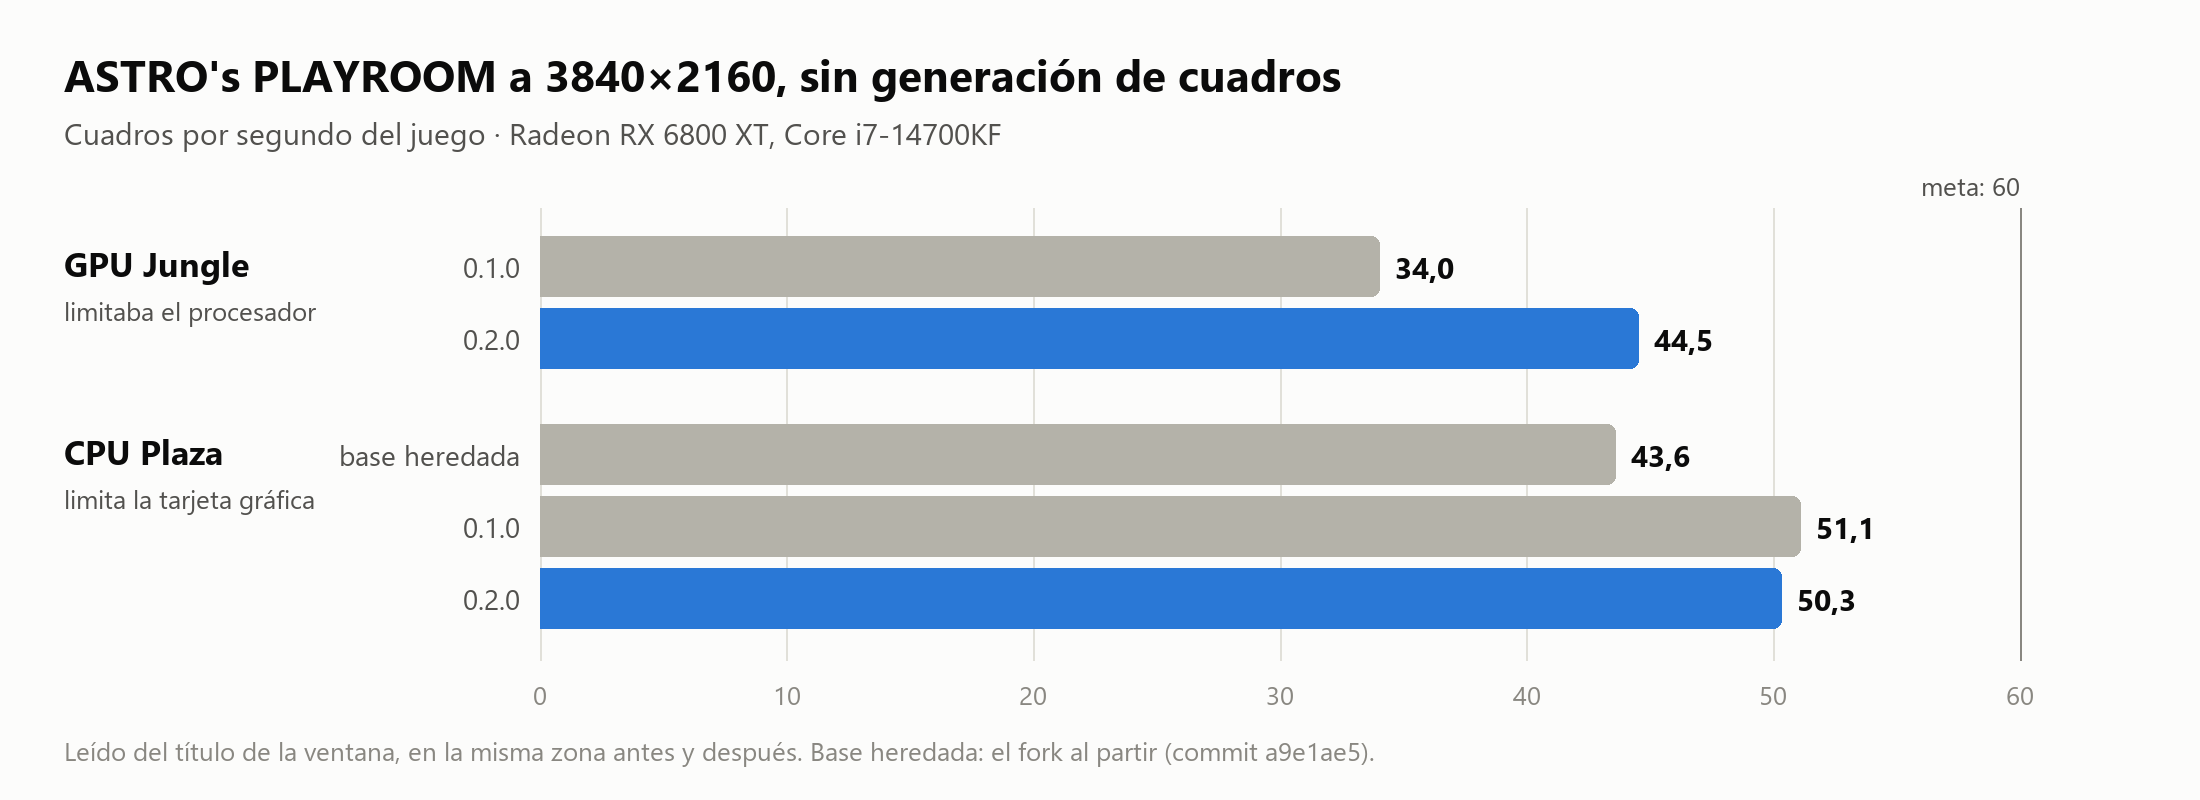
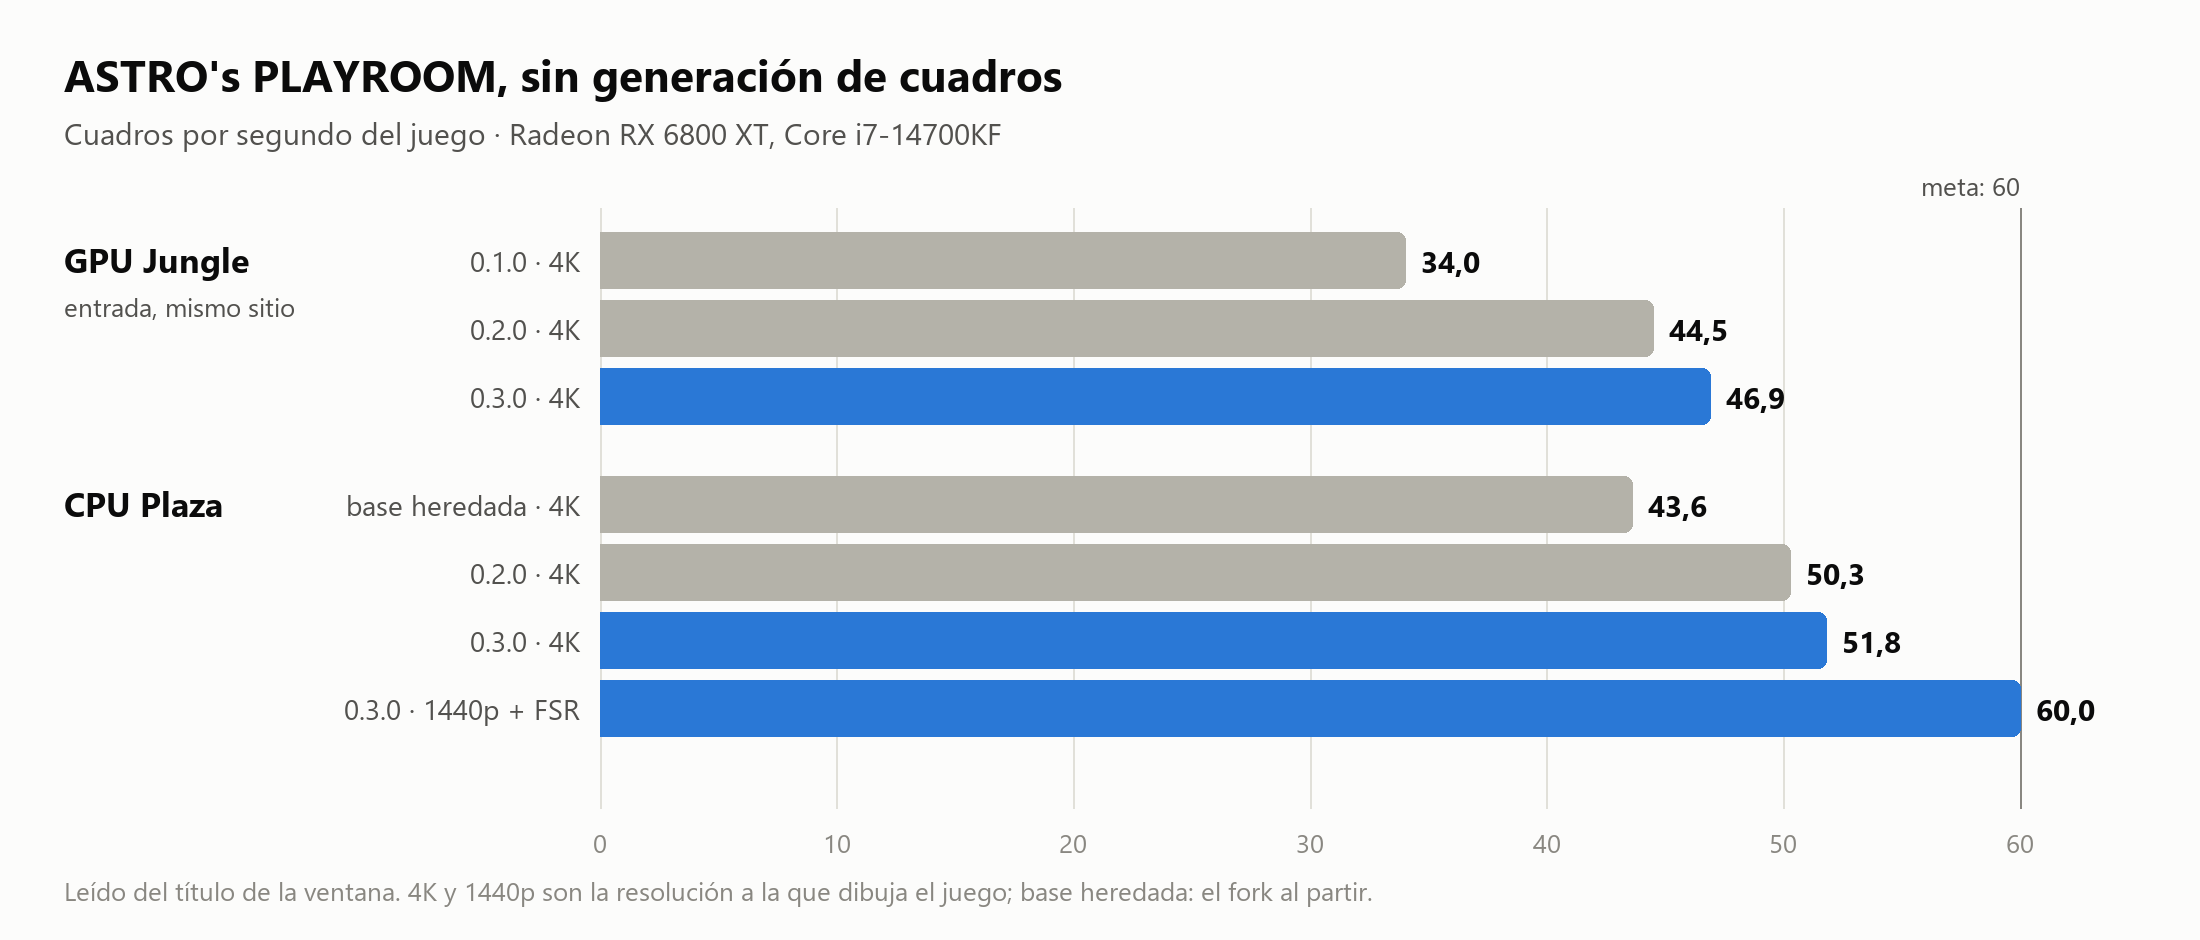
Version 0.3.0: what was measured and what changed

diff --git a/README.md b/README.md
@@ -14,84 +14,90 @@ gráfica de la PS5.
 | Equipo de pruebas | Radeon RX 6800 XT, Intel Core i7-14700KF, Windows 11 |
 | Juego de referencia | ASTRO's PLAYROOM (PPSA01325) |
 | Punto de partida | 34–44 fps en juego (GPU Jungle y CPU Plaza) |
-| Ahora (0.2.0) | 44–50 fps en GPU Jungle, ≈50 fps en CPU Plaza |
+| Ahora (0.3.0) | 60 fps en CPU Plaza (1440p con FSR), 41–47 fps en GPU Jungle |
 | Meta | 60 fps estables |
 
-Todo a 3840×2160, que es como dibuja el juego, y sin generación de cuadros.
+Sin generación de cuadros.
 
 ## Estado
 
-Versión **0.2.1**. Medido en la RX 6800 XT, con el mismo juego y en el mismo sitio antes y después:
+Versión **0.3.0**. Medido en la RX 6800 XT, leyendo los fps que el emulador escribe en el título.
 
 ![Cuadros por segundo antes y después](docs/screenshots/fps-antes-y-despues.png)
 
-| Zona | Antes | 0.2.0 | Qué limita ahora |
-| --- | --- | --- | --- |
-| GPU Jungle (hierba, al empezar) | 34,0 fps (0.1.0) | 44,5 fps | El procesador |
-| CPU Plaza | 43,6 fps (base heredada) · 51,1 fps (0.1.0) | 50,3 fps | La tarjeta gráfica (≈18 ms por cuadro) |
+| Zona | Antes | 0.3.0 |
+| --- | --- | --- |
+| CPU Plaza, dibujando a 3840×2160 | 43,6 fps (base heredada) · 50,3 fps (0.2.0) | 51,8 fps |
+| CPU Plaza, dibujando a 2560×1440 con FSR | — | **60,0 fps estables** |
+| GPU Jungle, entrada, a 3840×2160 | 34,0 fps (0.1.0) · 44,5 fps (0.2.0) | 46,9 fps |
+| GPU Jungle, más adentro (acantilado) | — | 41–45 fps a cualquier resolución |
 
-Los fps son los que escribe el emulador en el título de la ventana. «Base heredada» es el fork
-tal como partió de KytyPS5 y BryKytyPS5 (commit `a9e1ae5`); 0.1.0 ya traía las primeras mejoras
-de carga de la tarjeta, que son las que se notan en la plaza. Las de 0.2.0 son de procesador y se
-notan donde el procesador era el límite: la selva. En la plaza 0.1.0 y 0.2.0 dan lo mismo, dentro
-de lo que varía la medida de una partida a otra.
+«Base heredada» es el fork tal como partió de KytyPS5 y BryKytyPS5 (commit `a9e1ae5`).
 
-### GPU Jungle: de 34 a 44,5 fps
+### La configuración recomendada: 1440p con FSR a pantalla completa
 
-| 0.1.0 · 34,0 fps | 0.2.0 · 44,5 fps |
+![CPU Plaza a 60 fps con 1440p y FSR](docs/screenshots/astro-plaza-0.3.0-1440p-fsr-60fps.jpg)
+
+ASTRO's PLAYROOM dibuja a 3840×2160 y a esa resolución la tarjeta va al límite. Con el parche
+que viene en el paquete dibuja a 2560×1440, y el emulador escala la imagen a la pantalla con
+**AMD FSR 1** (sus dos pasadas, EASU y RCAS). La plaza pasa a 60 fps estables, y en todo el juego
+hay menos tirones porque la tarjeta deja de ir justa. No lleva generación de cuadros: los 60 son
+del juego.
+
+![Escalado normal frente a FSR 1](docs/screenshots/fsr-comparacion.png)
+
+Recorte al 100 % de la misma escena, de 2560×1440 a 3840×2160. FSR 1 es el más reciente que se
+puede usar aquí: FSR 2, 3 y 4 necesitan vectores de movimiento y profundidad que el juego no
+entrega al emulador. Es una casilla por juego (**FSR upscaling**) y `--fsr-upscaling true`; con
+`--fsr-softness 0`–`20` se elige cuánto marca los bordes (10 por defecto).
+
+### GPU Jungle: de 34 a 47 fps, y lo que falta
+
+| 0.1.0 · 34,0 fps | 0.3.0 · 46,9 fps |
 | --- | --- |
-| ![GPU Jungle con 0.1.0](docs/screenshots/astro-jungla-0.1.0-34fps.jpg) | ![GPU Jungle con 0.2.0](docs/screenshots/astro-jungla-0.2.0-44fps.jpg) |
+| ![GPU Jungle con 0.1.0](docs/screenshots/astro-jungla-0.1.0-34fps.jpg) | ![GPU Jungle con 0.3.0](docs/screenshots/astro-jungla-0.3.0-47fps.jpg) |
 
-El mismo sitio con las dos versiones: un 31 % más de cuadros por segundo. Más adentro del nivel
-0.2.0 llega a ≈50 fps.
+En la selva limita el procesador, no la tarjeta: el juego emite entre 8000 y 10 600 dibujos por
+cuadro y un solo hilo los prepara, así que bajar la resolución ahí da estabilidad pero no fps.
+Lo que se ha recortado de ese hilo en 0.3.0, cada cosa medida encendiéndola y apagándola en la
+misma partida y comprobada contra el camino sin atajo:
 
-### CPU Plaza: de 43,6 a ≈50 fps
+- Los destinos de render de un dibujo sirven para el siguiente mientras nada de lo que dependen
+  cambia: −7,6 % de procesador por dibujo.
+- El pipeline del dibujo anterior se toma sin reconstruir su clave: −3,2 %.
+- Lo que escribe cada hilo va en su propia línea de caché (los hilos se la quitaban con cada
+  comando): −4 %.
+- Los datos del siguiente dibujo se piden por adelantado al hilo que se adelanta: −1,2 %.
 
-| Base heredada · 43,6 fps | 0.2.0 · 50,3 fps |
-| --- | --- |
-| ![CPU Plaza con la base heredada](docs/screenshots/astro-plaza-origen-43fps.jpg) | ![CPU Plaza con 0.2.0](docs/screenshots/astro-plaza-0.2.0-50fps.jpg) |
+En total, el coste por dibujo bajó un 13 % (de 2,21 a 1,92 µs con los cronómetros puestos). Para
+60 fps en lo más cargado de la selva hace falta alrededor de un 20 % más, y eso ya no sale de
+recortes así: pide repartir la preparación de cada dibujo entre dos hilos, que es el trabajo
+siguiente.
 
-### Generación de cuadros (opcional)
+Probado y descartado, por si alguien lo intenta: actualizar las sombras de las luces quietas un
+cuadro sí y otro no ahorra un 30 % de dibujos con la cámara quieta, pero en la selva las sombras
+parpadean; y fijar los hilos a núcleos distintos no cambia nada.
 
-![CPU Plaza con generación de cuadros](docs/screenshots/astro-plaza-0.2.0-generacion-de-cuadros.jpg)
+### También en 0.3.0
 
-Con AMD FSR 3 se muestra un cuadro generado entre cada dos del juego. En la plaza a 3840×2160,
-con el juego limitado a 50 fps: 47 fps del juego y 94 cuadros mostrados por segundo (se ve en el
-título: `game fps` y `presents/s`). Generar los cuadros cuesta algo de tarjeta, por eso el juego
-no llega a los 50. Suaviza el movimiento; no hace que el juego vaya más rápido. Está apagada por
-defecto y se activa por juego en el lanzador o con `--frame-generation true`.
-
-De dónde sale la mejora:
-
-- El juego emite unos 8000 dibujos por cuadro y un solo hilo los prepara todos. Más de la mitad
-  van a un mapa de sombras de 16 capas, y por cada uno se recorría toda su tabla de páginas para
-  volver a encontrarlo. Ahora se recuerda, igual que el búfer de profundidad con stencil.
-- Las copias de memoria que acompañan a cada dibujo las hace el hilo que graba los comandos, que
-  estaba casi siempre libre.
-- El hilo que se adelanta a preparar los shaders ya no se duerme entre dibujos ni entre envíos.
-- Los shaders que no escriben en sus búferes los declaran de solo lectura, lo que quita cerca de
-  un 10 % de carga a la tarjeta.
-
-Además:
-
-- 0.2.1: ASTRO's PLAYROOM ya no se cierra en GPU Jungle con «Assertion failed: !pos.IsNan()».
-  Su física recibía raíces inversas calculadas como las calcula un procesador Intel; con «AMD CPU
-  patch» (`--amd-cpu`, ahora en los ajustes recomendados) se calculan como en la consola, y sin
-  atrapar cada una como excepción, gracias a los cambios de KytyPS5 que se incorporaron.
+- ASTRO's PLAYROOM ya no se cierra en GPU Jungle con «Assertion failed: !pos.IsNan()». Su física
+  recibía raíces inversas calculadas como las calcula un procesador Intel; con «AMD CPU patch»
+  (`--amd-cpu`, en los ajustes recomendados) se calculan como en la consola, sin atrapar cada una
+  como excepción, gracias a los cambios de KytyPS5 que se incorporaron.
+- Generación de cuadros con AMD FSR 3, opcional y apagada por defecto.
 
 ### En el lanzador
 
 ![Menú del juego en el lanzador](docs/screenshots/lanzador-ajustes-recomendados.png)
 
 - **Apply recommended settings** (clic derecho sobre el juego) pone los ajustes con los que el
-  juego va mejor. ASTRO's PLAYROOM los recibe además solo la primera vez que aparece.
-- **Patches...** activa o desactiva los parches del juego. El paquete trae el de ASTRO's PLAYROOM
-  que apaga la iluminación global por trazado de rayos (`_Patches/PPSA01325.json`); el lanzador lo
-  aplica solo cuando ese archivo está junto a él.
-- En los ajustes de cada juego hay casillas para la generación de cuadros y la lectura relajada.
-
-Falta para la meta: en la selva hay que seguir quitando trabajo al hilo que prepara los dibujos,
-y en la plaza hay que aligerar la carga de la tarjeta.
+  juego va mejor; para ASTRO's PLAYROOM, entre otros: pantalla completa, FSR upscaling y AMD CPU
+  patch. El juego los recibe además solo la primera vez que aparece.
+- **Patches...** activa o desactiva los parches del juego. El paquete trae
+  `_Patches/PPSA01325.json` con tres: los dos que apagan la iluminación global por trazado de
+  rayos y el que hace que el juego dibuje a 2560×1440. Para volver a 3840×2160, desmarca ese.
+- En los ajustes de cada juego hay casillas para FSR upscaling, generación de cuadros y lectura
+  relajada.
 
 ## Cómo se trabaja
 
